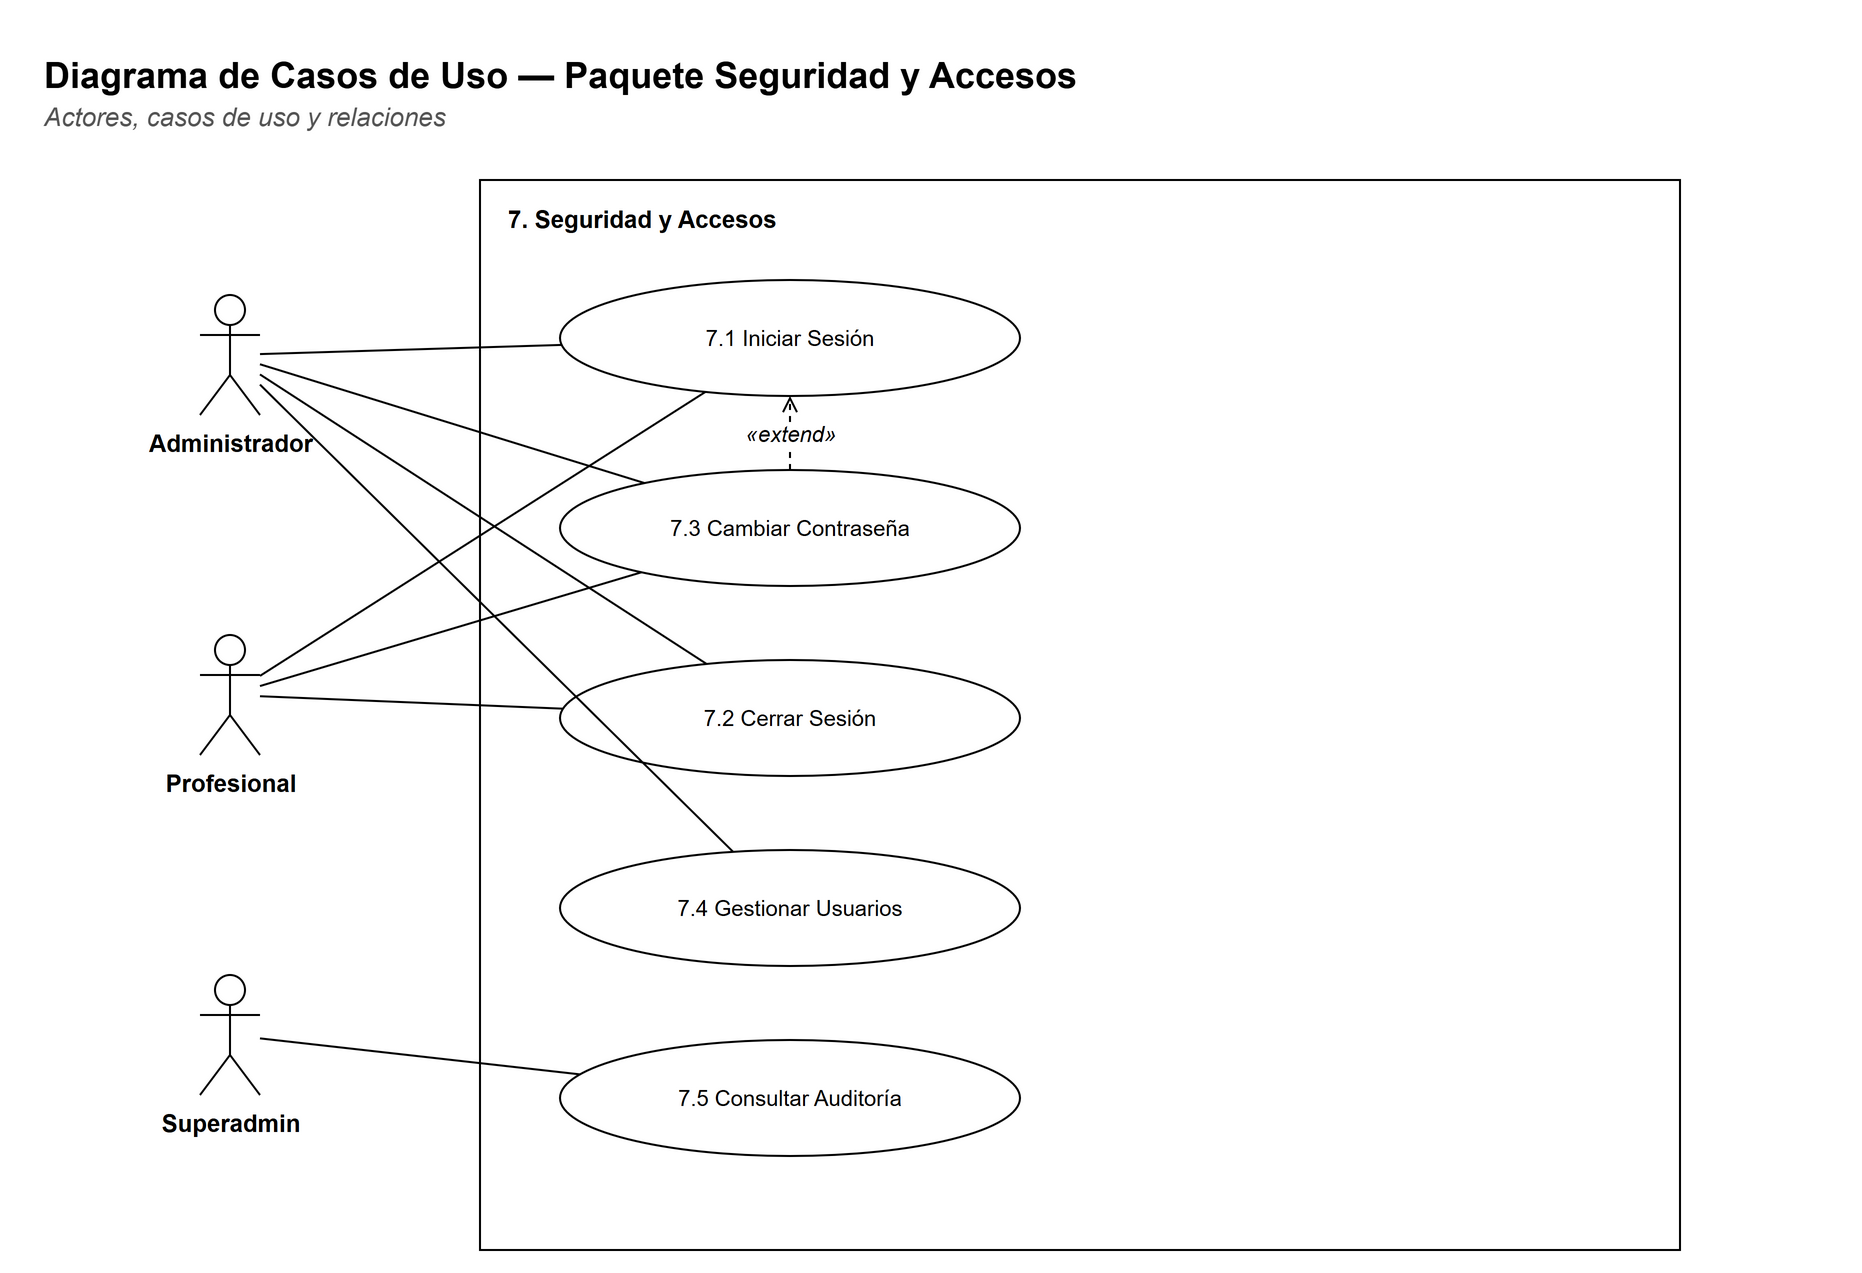
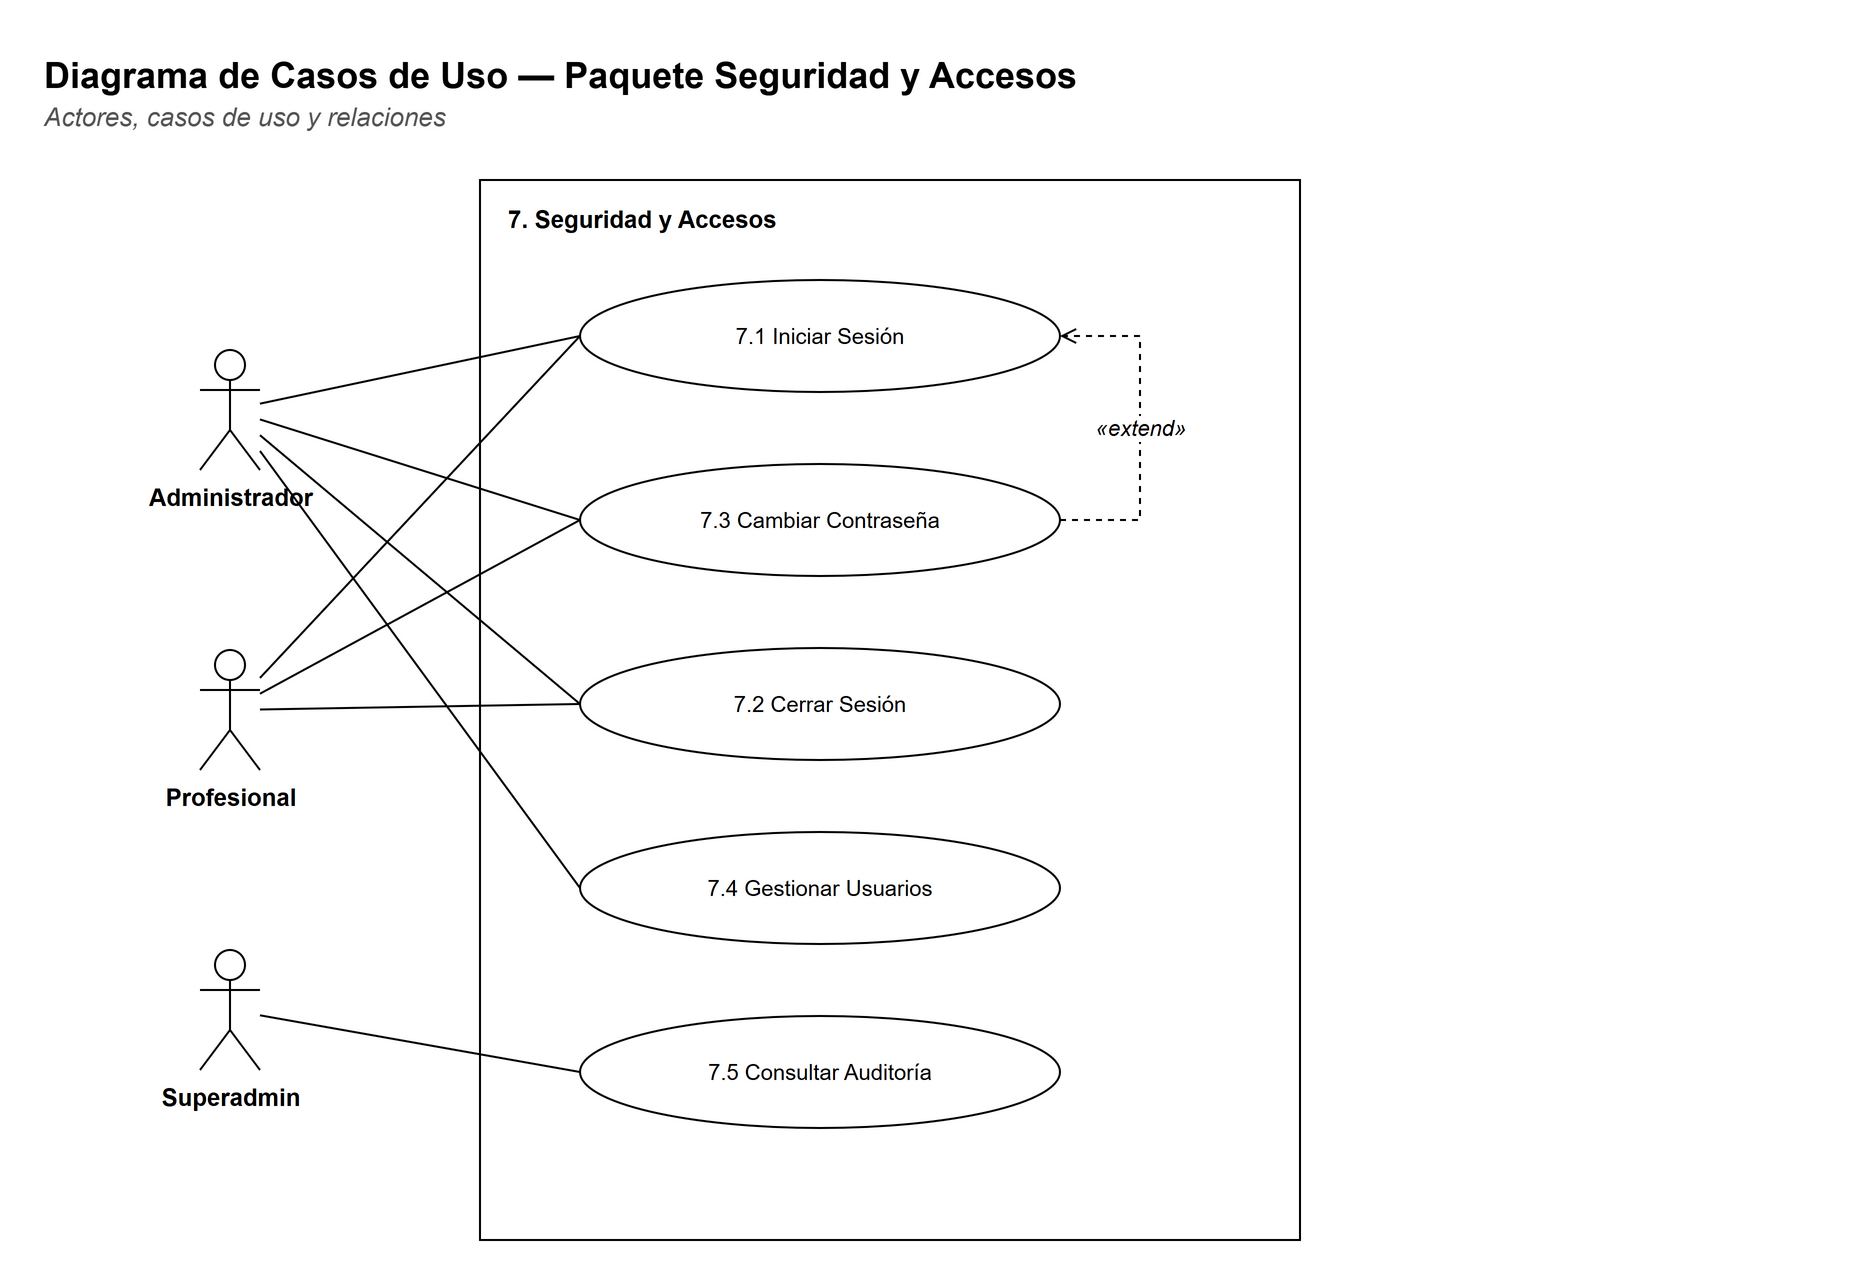
Diagramas de paquete: casos de uso en una columna, sin líneas que los crucen
Los actores llegan al borde de cada caso de uso, las relaciones «include» /
«extend» del paquete van por carriles a la derecha y los casos de otros
paquetes quedan afuera del límite del paquete.

diff --git a/scripts/diagramas/drawio.py b/scripts/diagramas/drawio.py
@@ -524,45 +524,71 @@ from paquetes_uml import PAQUETES  # noqa: E402  (datos de cada paquete)
 
 
 def paquete_casos(key):
-    """Casos de uso del paquete: actores, casos y relaciones «include» / «extend» (también con casos de otros paquetes)."""
-    pk = PAQUETES[key]
-    externos = pk.get("externos", [])
-    # Los casos destino de un «include» o un «extend» van a la columna derecha, para que las relaciones no crucen otros casos.
-    # Se puede fijar a mano qué casos van a la derecha ("derecha") y el orden de la izquierda ("orden").
-    incluidos = set(pk.get("derecha", {dst for _, dst, _kind in pk["relaciones"]}))
-    orden = pk.get("orden", [c[0] for c in pk["casos"]])
-    izquierda = sorted((c for c in pk["casos"] if c[0] not in incluidos), key=lambda c: orden.index(c[0]))
-    derecha = [c for c in pk["casos"] if c[0] in incluidos] + [(n, f"{nom}<br><i>(paquete {paq})</i>", None)
-                                                              for n, nom, paq in externos]
-    filas = max(len(izquierda), len(derecha), 1)
-    alto = filas * 95 + 60
-    d = Diagram(f"paquete-{key}-casos", 1100, alto + 140)
-    d.title(f"Diagrama de Casos de Uso — Paquete {pk['nombre']}", "Actores, casos de uso y relaciones")
-    d.box(250, 100, 600, alto, "", "verticalAlign=top;")
-    d.text(262, 106, 580, 20, f"<b>{pk['numero']}. {pk['nombre']}</b>", "fontSize=12;")
-    ids = {}
-    for i, (num, nombre, _) in enumerate(izquierda):
-        ids[num] = d.ellipse(290, 150 + i * 95, 230, 58, f"{num} {nombre}")
-    for i, (num, nombre, quienes) in enumerate(derecha):
-        y = 150 + (filas - len(derecha)) * 95 / 2 + i * 95
-        externo = quienes is None
-        ids[num] = d.ellipse(590, y, 230, 58, f"{num} {nombre}", "dashed=1;" if externo else "")
-    actores = {}
-    centro = 100 + alto / 2 - 40
-    todos_izq = pk.get("actores_izquierda", False) or len(pk["actores"]) == 1
-    lado_izq = pk["actores"] if todos_izq else pk["actores"][:-1]
-    lado_der = [] if todos_izq else pk["actores"][-1:]
-    for j, actor in enumerate(lado_izq):
-        actores[actor] = d.actor(110, centro + (j - (len(lado_izq) - 1) / 2) * 170, actor)
-    for actor in lado_der:
-        actores[actor] = d.actor(950, centro, actor)
-    for num, _, quienes in pk["casos"]:
-        for actor in quienes:
-            d.line(actores[actor], ids[num])
-    for src, dst, kind in pk["relaciones"]:
-        d.line(ids[src], ids[dst], f"«{kind}»", dashed=True, arrow="open", style="fontStyle=2;")
-    d.write()
+    """Casos de uso del paquete en una columna, con los actores a la izquierda.
 
+    Así ninguna línea atraviesa un caso de uso: cada actor llega al borde izquierdo de
+    sus casos; las relaciones «include» / «extend» entre casos del paquete van por
+    carriles a la derecha de la columna, y los casos de otros paquetes, afuera del
+    límite del paquete (punteados).
+    """
+    pk = PAQUETES[key]
+    orden = pk.get("orden", [c[0] for c in pk["casos"]])
+    casos = sorted(pk["casos"], key=lambda c: orden.index(c[0]))
+    externos = {n: (nom, paq) for n, nom, paq in pk.get("externos", [])}
+    internas = [r for r in pk["relaciones"] if r[1] not in externos]
+    hacia_afuera = [r for r in pk["relaciones"] if r[1] in externos]
+
+    paso, y0, col_x, col_w, cu_h = 92, 150, 300, 240, 56
+    carril0, carril_paso = col_x + col_w + 40, 70
+    caja_der = max(carril0 + len(internas) * carril_paso + 10, col_x + col_w + 60)
+    alto = max(len(casos) * paso + 70, 150 * len(pk["actores"]) + 40)
+    ext_x = caja_der + 90
+    ancho = ext_x + (280 if externos else 0) + 40
+    d = Diagram(f"paquete-{key}-casos", ancho, y0 + alto + 20 + (cu_h + 40) * max(len(externos) - 1, 0))
+    d.title(f"Diagrama de Casos de Uso — Paquete {pk['nombre']}", "Actores, casos de uso y relaciones")
+    d.box(250, 100, caja_der - 250, alto, "", "verticalAlign=top;")
+    d.text(262, 106, caja_der - 270, 20, f"<b>{pk['numero']}. {pk['nombre']}</b>", "fontSize=12;")
+
+    ids, centro_y = {}, {}
+    for i, (num, nombre, _) in enumerate(casos):
+        y = y0 + i * paso
+        ids[num] = d.ellipse(col_x, y, col_w, cu_h, f"{num} {nombre}")
+        centro_y[num] = y + cu_h / 2
+
+    # Casos de otros paquetes: a la altura promedio de los casos que los usan.
+    posiciones = []
+    for num in externos:
+        fuentes = [centro_y[src] for src, dst, _ in hacia_afuera if dst == num]
+        posiciones.append([sum(fuentes) / len(fuentes) - cu_h / 2, num])
+    posiciones.sort()
+    for i in range(1, len(posiciones)):  # sin superponerse
+        posiciones[i][0] = max(posiciones[i][0], posiciones[i - 1][0] + cu_h + 40)
+    for y, num in posiciones:
+        nombre, paquete = externos[num]
+        ids[num] = d.ellipse(ext_x, y, 260, cu_h + 6, f"{num} {nombre}<br><i>(paquete {paquete})</i>", "dashed=1;")
+
+    # Actores a la izquierda, repartidos a lo alto de la columna.
+    actores = {}
+    n = len(pk["actores"])
+    separacion = max(alto / (n + 1), 150)
+    for j, actor in enumerate(pk["actores"]):
+        y = 100 + alto / 2 + (j - (n - 1) / 2) * separacion - 30
+        actores[actor] = d.actor(110, y, actor)
+    for num, _, quienes in casos:
+        for actor in quienes:
+            d.line(actores[actor], ids[num], style="entryX=0;entryY=0.5;entryDx=0;entryDy=0;")
+
+    # Relaciones dentro del paquete: por carriles a la derecha de la columna.
+    for k, (src, dst, kind) in enumerate(internas):
+        x = carril0 + k * carril_paso
+        d.edge(ids[src], ids[dst], label=f"«{kind}»", dashed=True, arrow="open", exit_=(1, 0.5), entry=(1, 0.5),
+               points=[(x, centro_y[src]), (x, centro_y[dst])], font=11,
+               label_style="fontStyle=2;labelBackgroundColor=#FFFFFF;")
+    # Relaciones con casos de otros paquetes: rectas, hacia afuera del paquete.
+    for src, dst, kind in hacia_afuera:
+        d.line(ids[src], ids[dst], f"«{kind}»", dashed=True, arrow="open",
+               style="fontStyle=2;exitX=1;exitY=0.5;exitDx=0;exitDy=0;")
+    d.write()
 
 def paquete_clases(key):
     """Vista estática del paquete: el control y las entidades que usa, con sus multiplicidades."""
